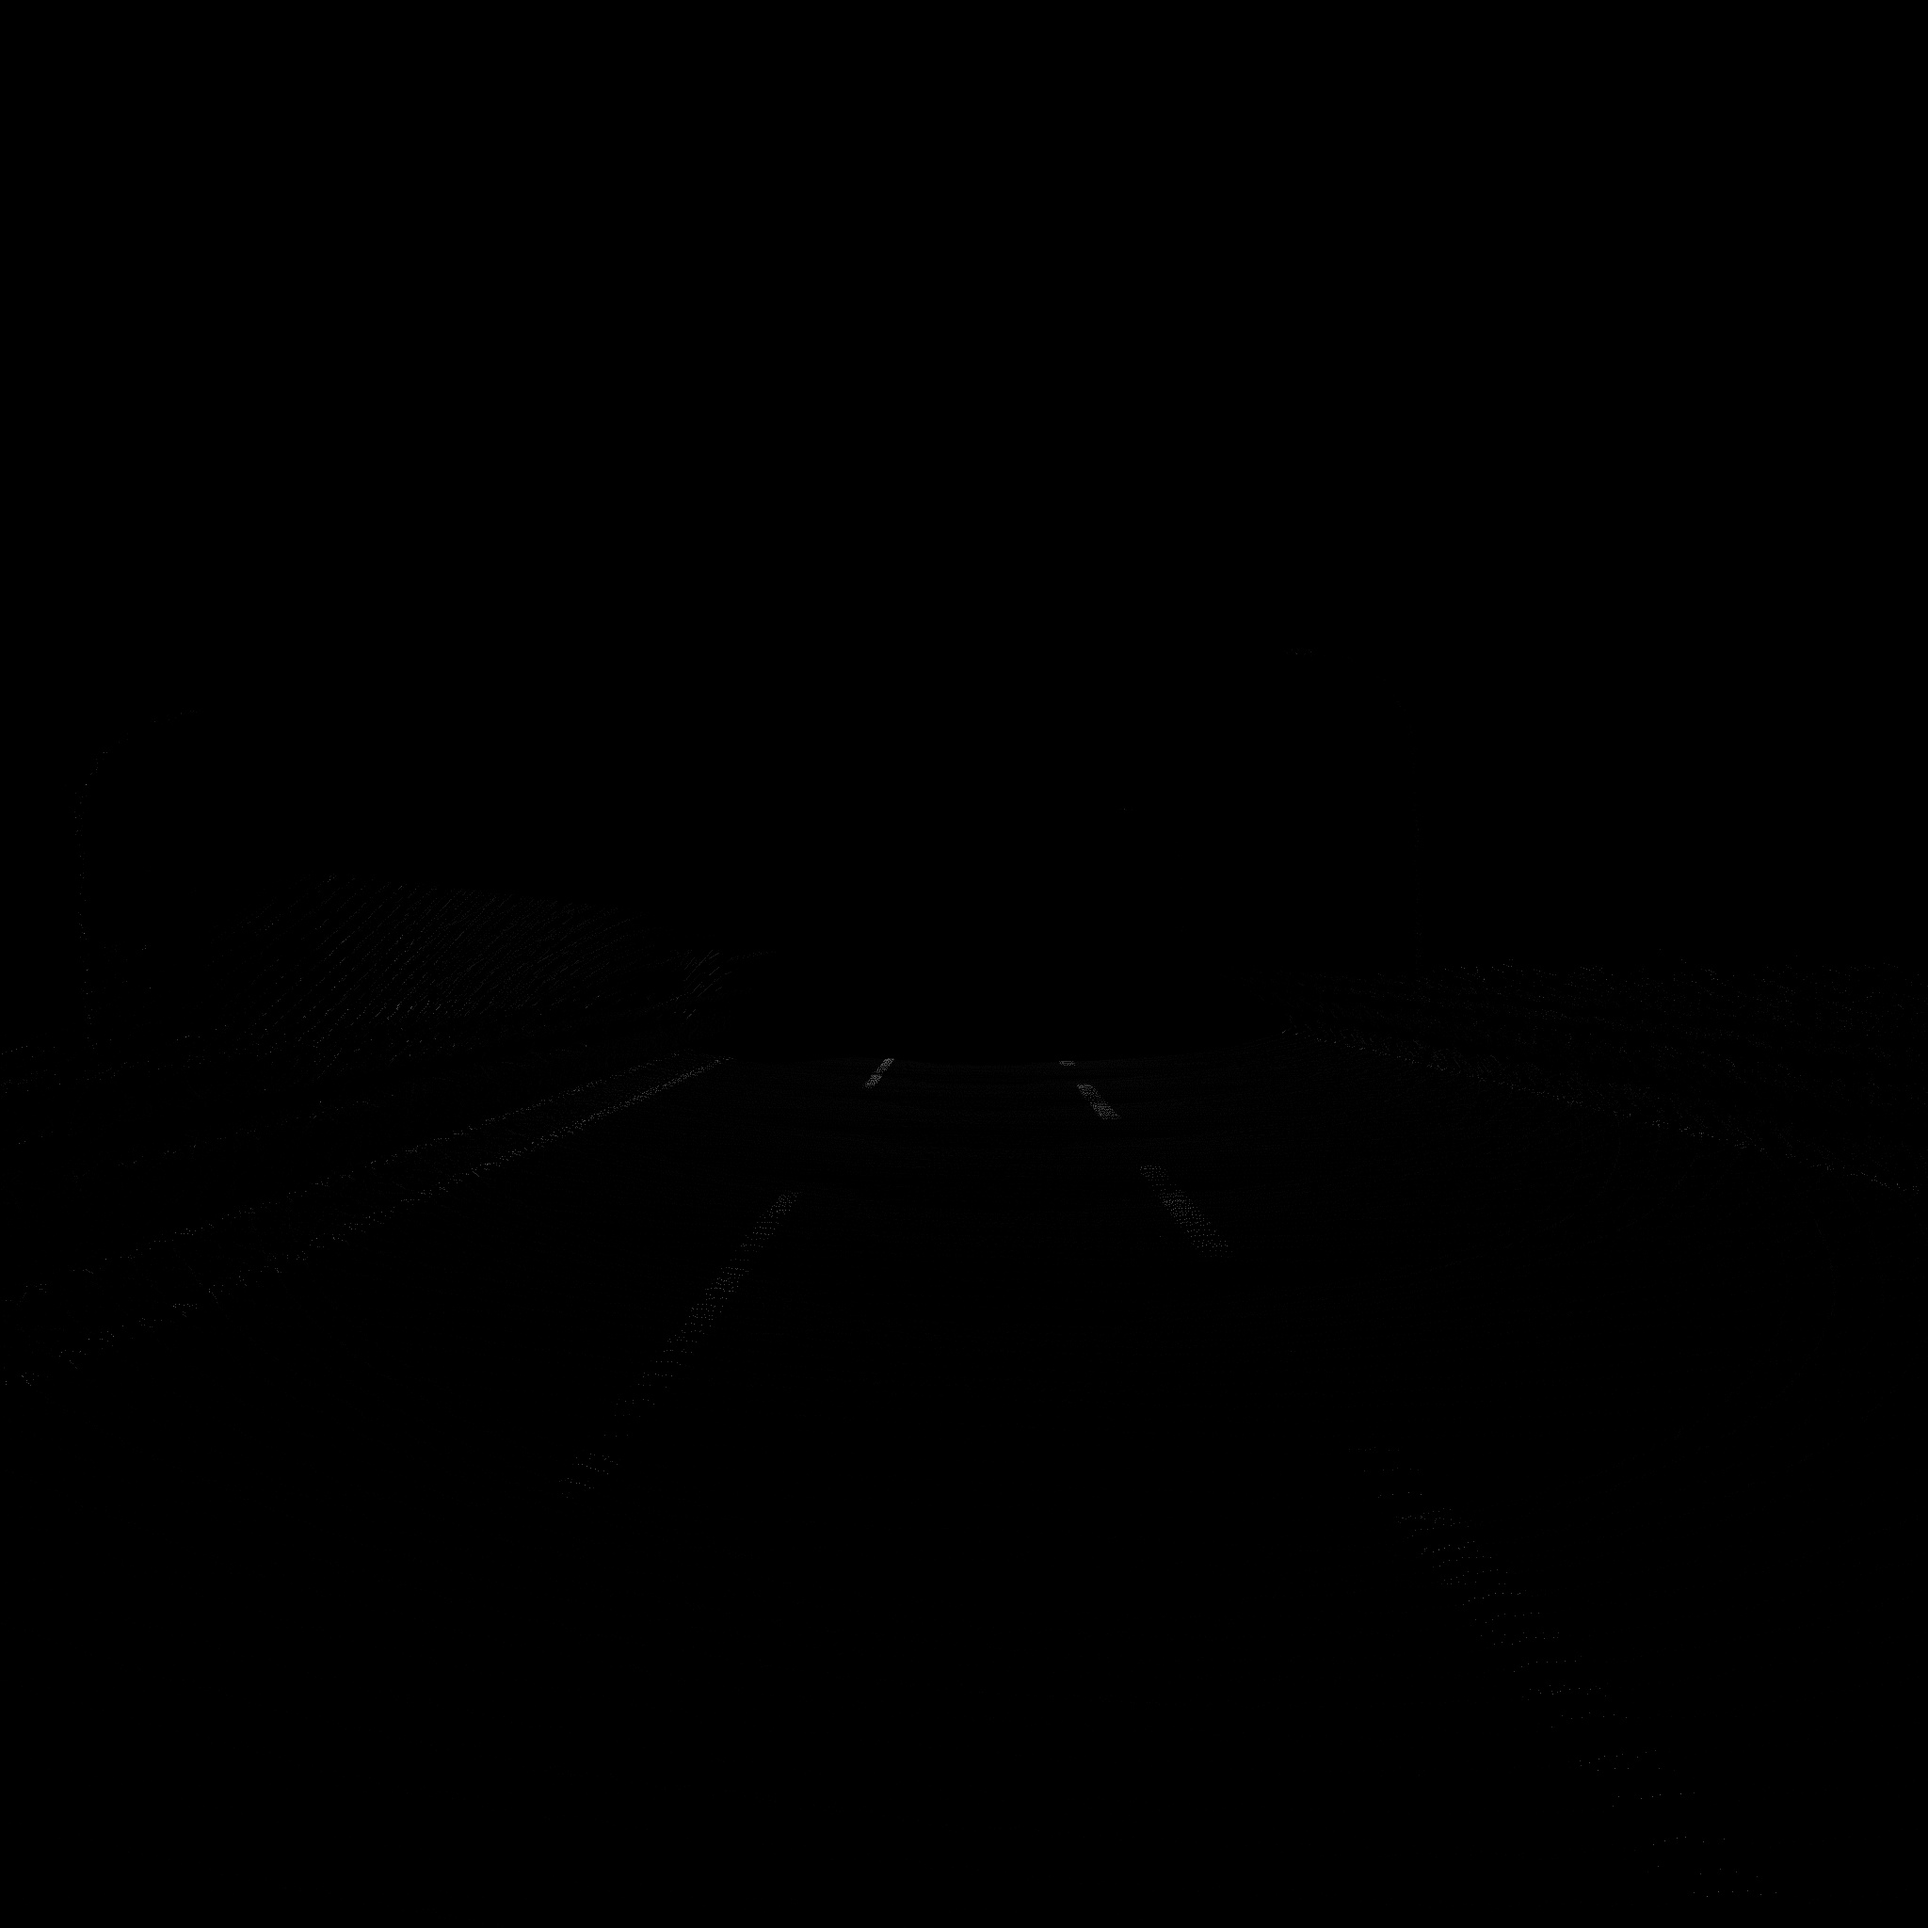
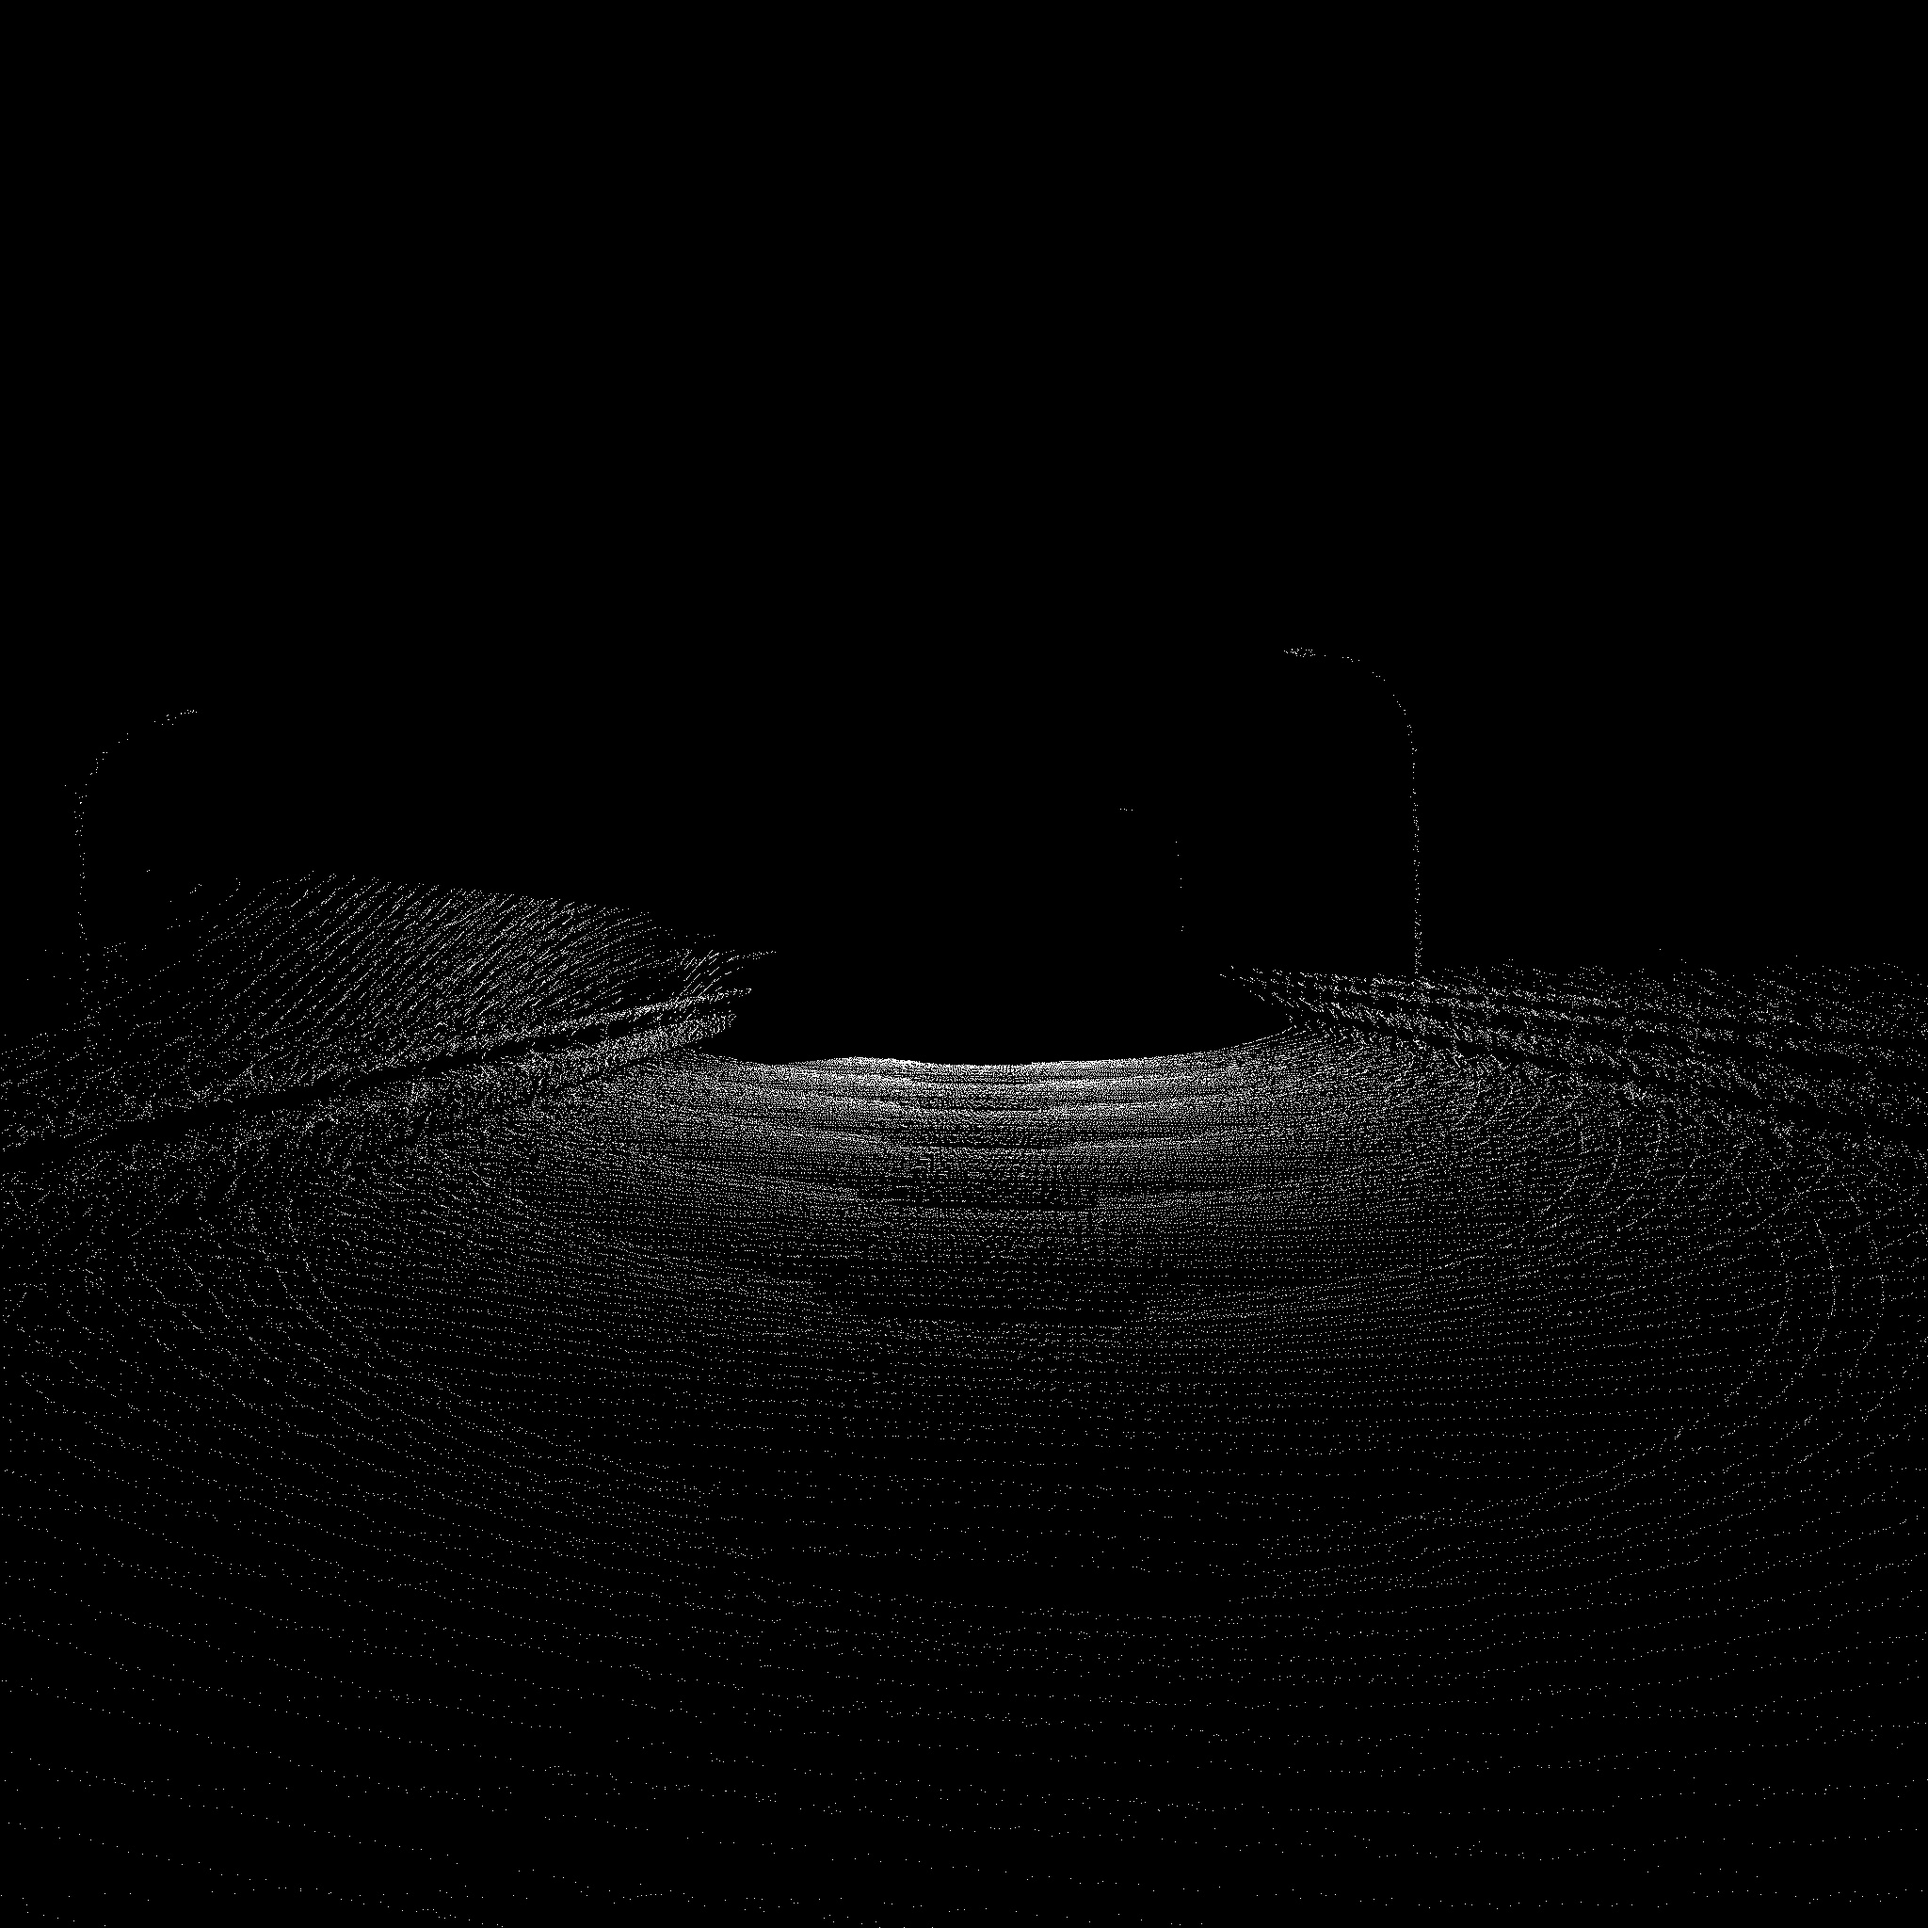
Initial Commit

Changed region(s): [[0.25, 0.4688, 0.7812, 0.625]]

diff --git a/Point_Cloud_And_Image_Misalignment/project.py b/Point_Cloud_And_Image_Misalignment/project.py
@@ -26,19 +26,19 @@ for index, row in point_cloud.iterrows():
 
     if z > 0 and z > abs(x) and z > abs(y):
         front = cam2image(x, y, z, 2048)
-        points_front.append([int(front[0]), int(front[1]), int(row.intensity)])
+        points_front.append([int(front[0]), int(front[1]), int(255)])
 
     if z < 0 and -z > abs(x) and -z > abs(y):
         back = cam2image(x, -y, z, 2048)
-        points_back.append([int(back[0]), int(back[1]), int(row.intensity)])
+        points_back.append([int(back[0]), int(back[1]), int(255)])
 
     if x > 0 and x > abs(z) and x > abs(y):
         right = cam2image(-z, y, x, 2048)
-        points_right.append([int(right[0]), int(right[1]), int(row.intensity)])
+        points_right.append([int(right[0]), int(right[1]), int(255)])
 
     if x < 0 and -x > abs(z) and -x > abs(y):
         left = cam2image(z, y, -x, 2048)
-        points_left.append([int(left[0]), int(left[1]), int(row.intensity)])
+        points_left.append([int(left[0]), int(left[1]), int(255)])
 
 
 front = np.zeros((2048, 2048))
